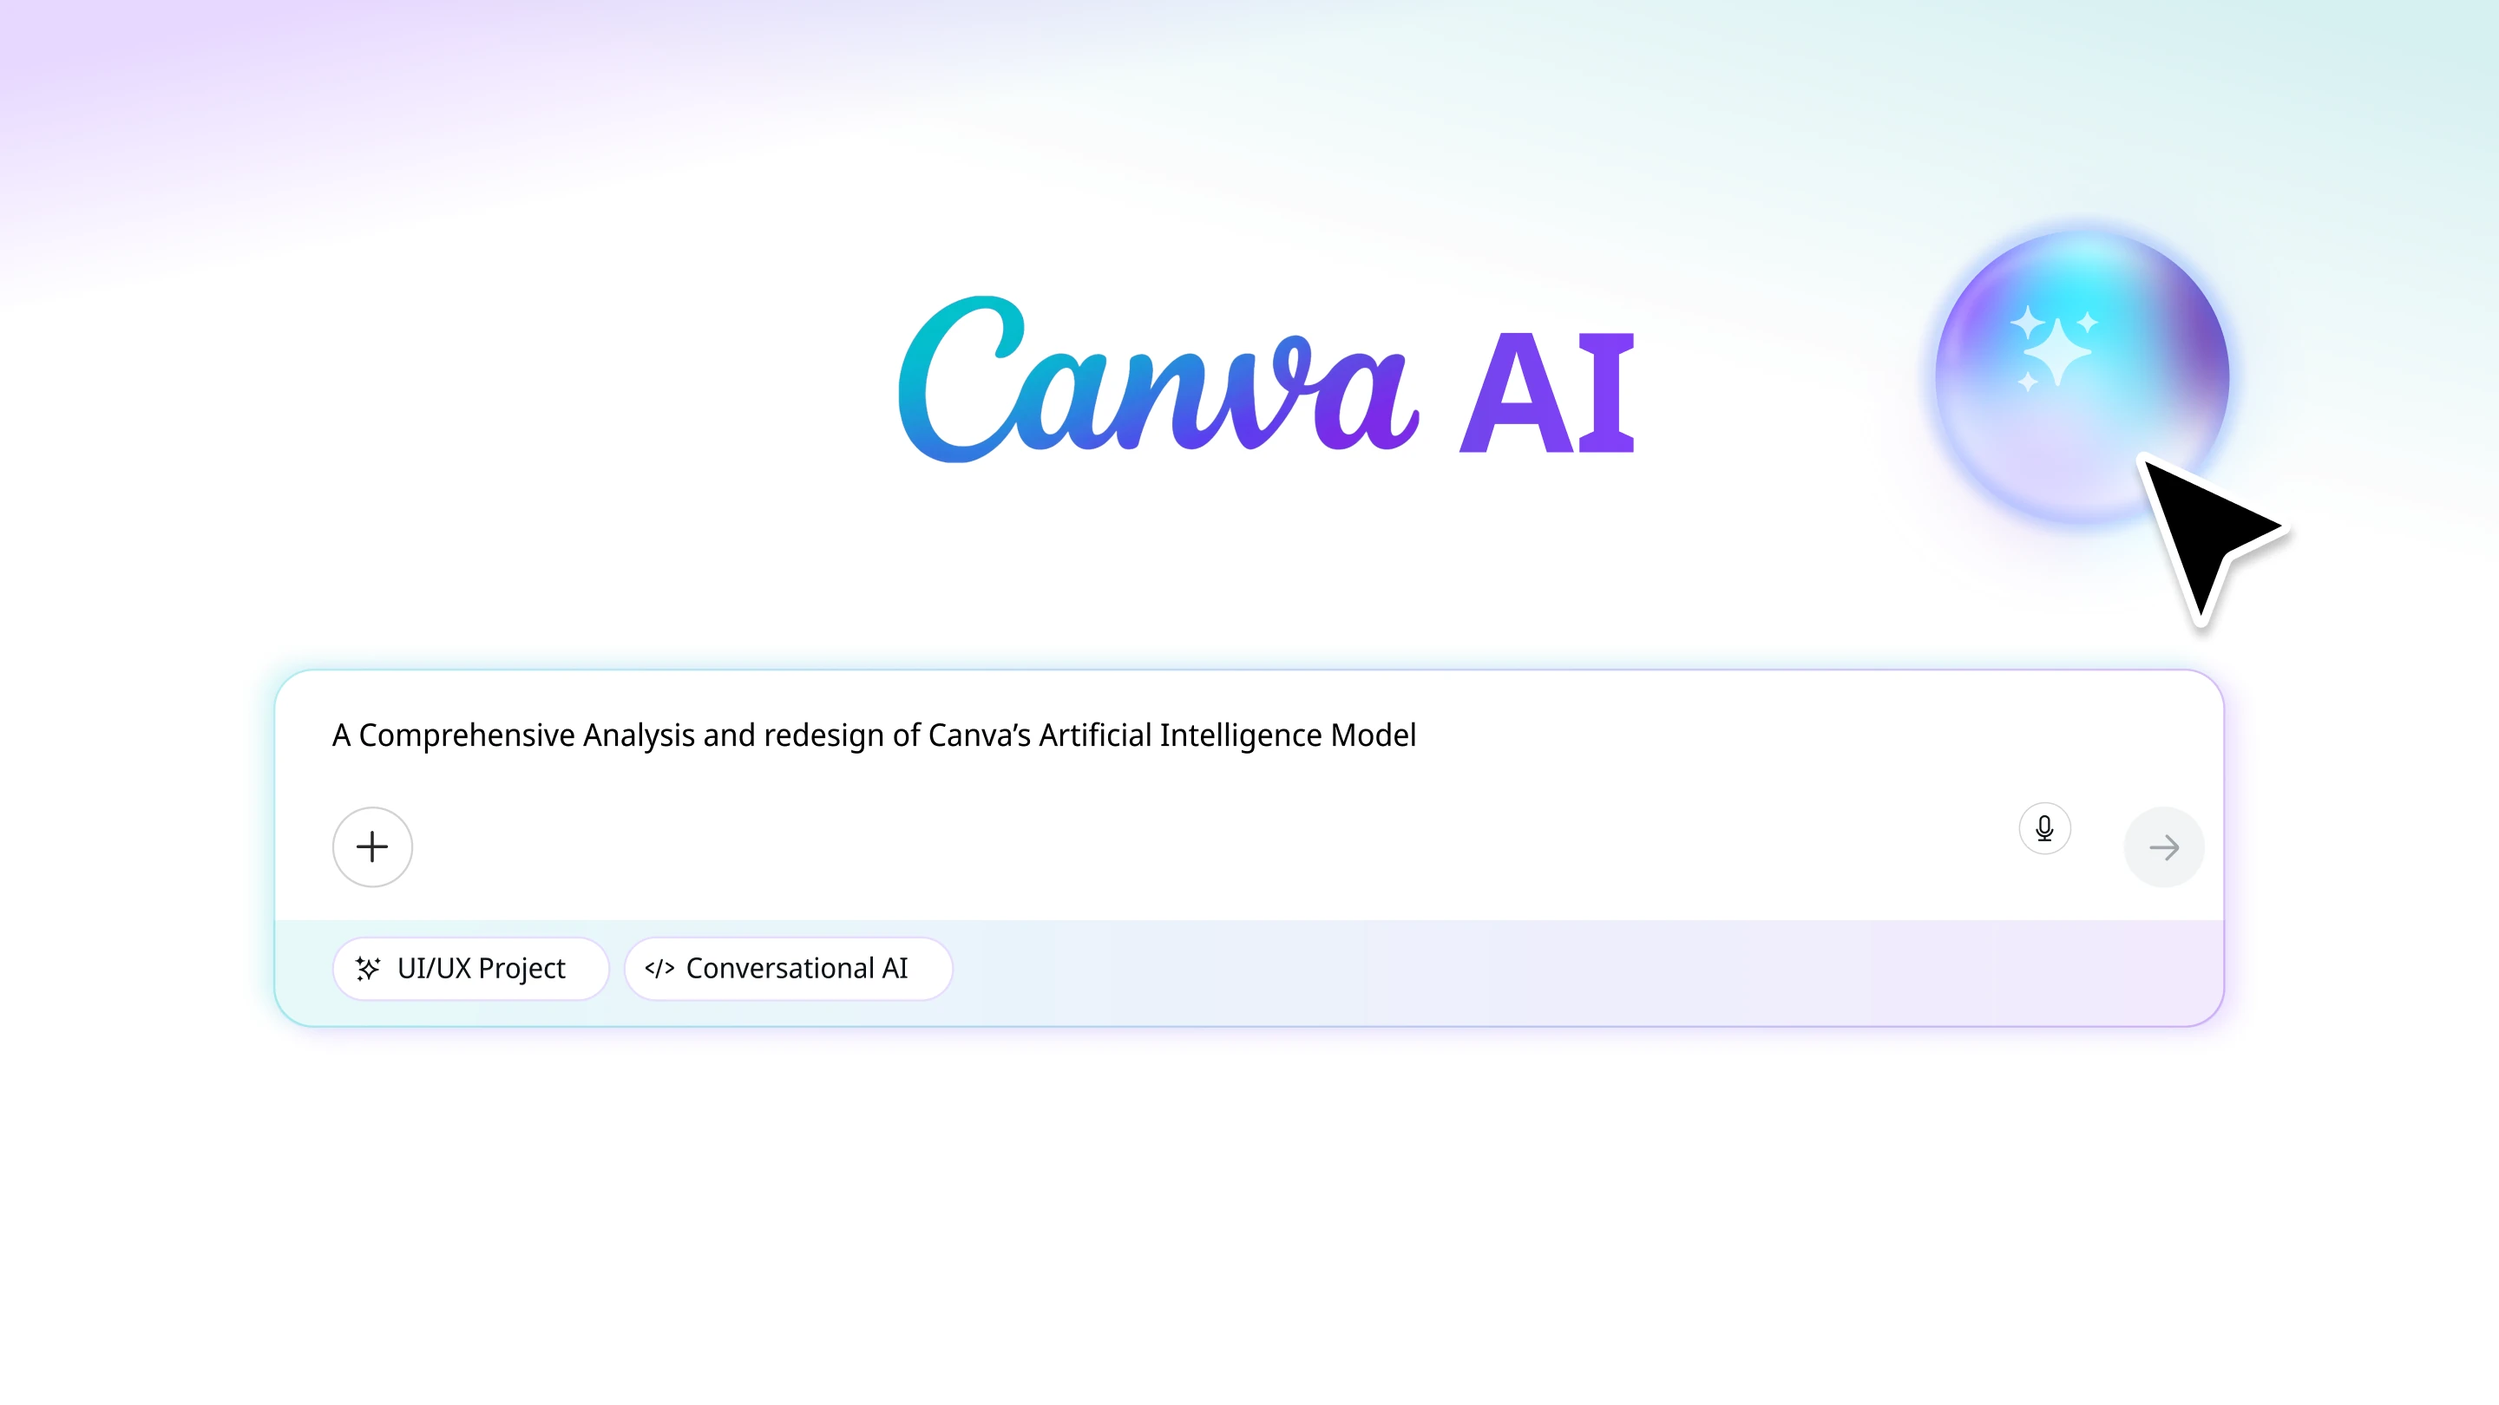
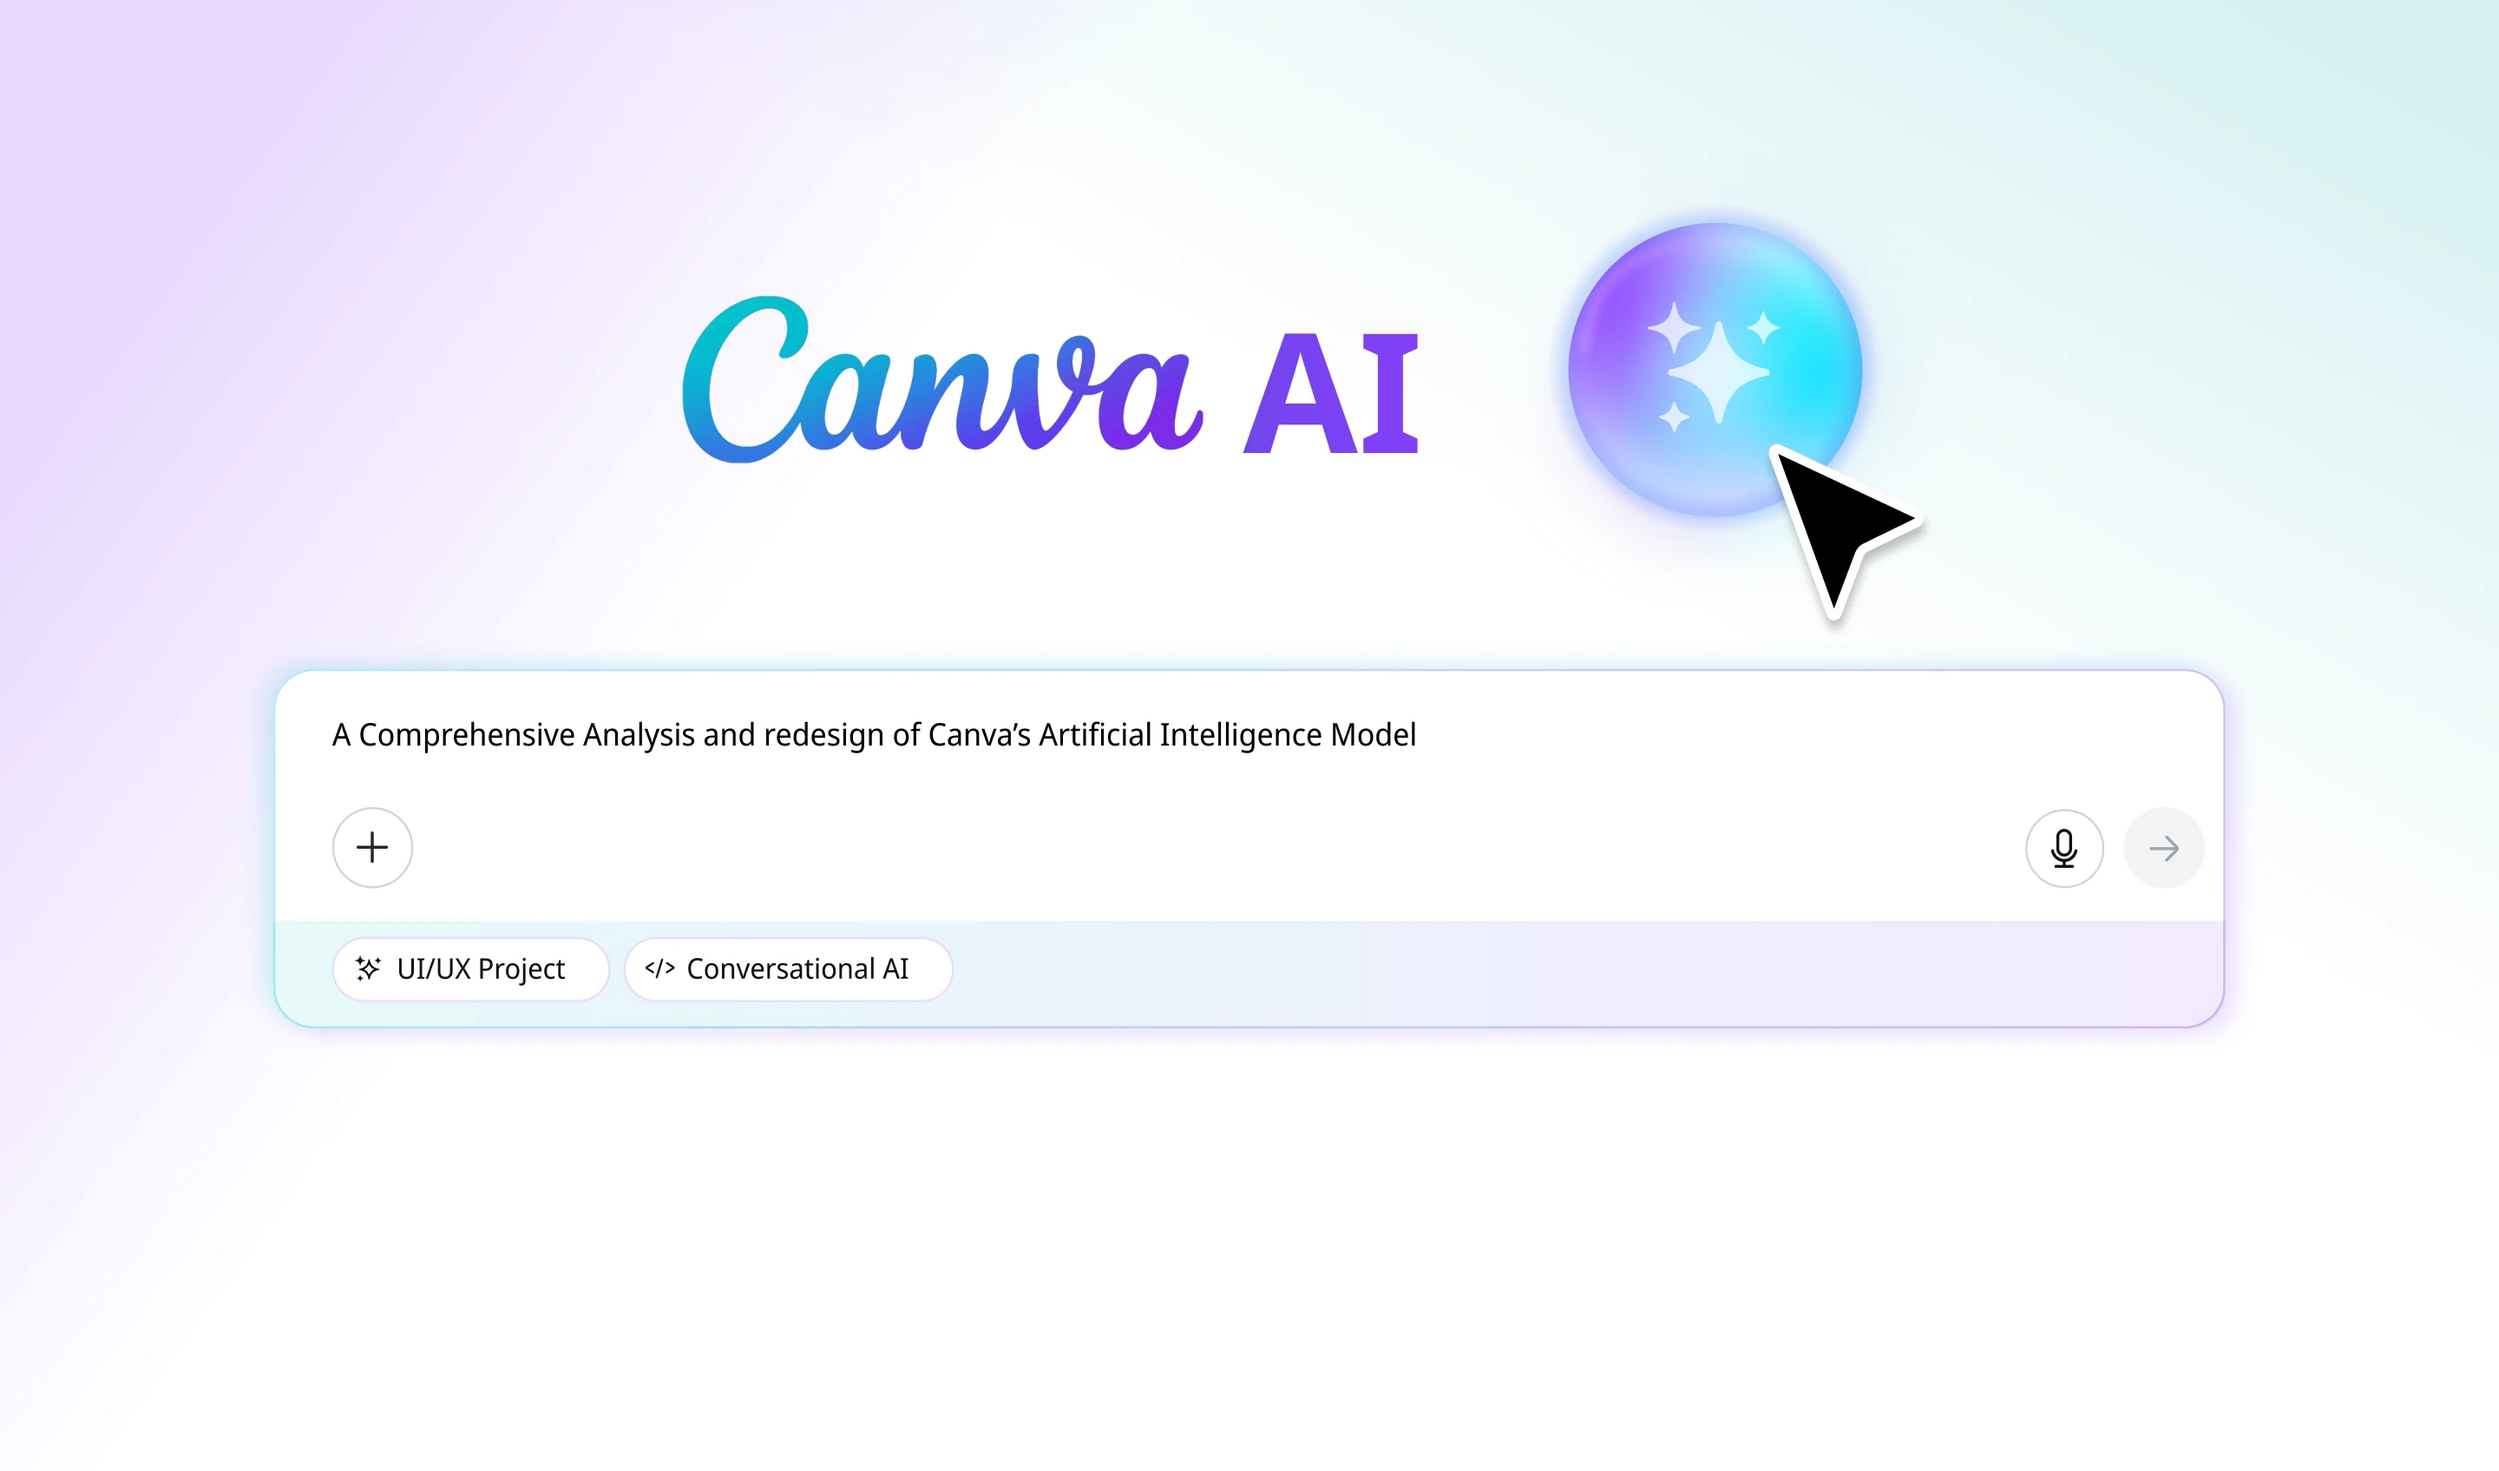
Canva AI: new intro frame as the cover

diff --git a/work/canva-ai.html b/work/canva-ai.html
@@ -30,7 +30,7 @@
   <div class="meta"><div><b>Type</b><span>UI/UX, conversational AI</span></div><div><b>My role</b><span>Visual Design, Research &amp; Analysis, AI Response Analysis, Framework Design</span></div><div><b>Methods</b><span>Prompt testing, review analysis</span></div><div><b>Year</b><span>2025</span></div></div>
 </header>
 
-<div class="cover"><div class="frame"><img src="img/canva-ai/01.webp" width="2880" height="1620" alt="Canva AI project cover" loading="eager" fetchpriority="high" decoding="async"></div></div>
+<div class="cover"><div class="frame"><img src="img/canva-ai/01.webp" width="2880" height="1695" alt="Canva AI project cover" loading="eager" fetchpriority="high" decoding="async"></div></div>
 
 <section class="about">
   <p>Canva's AI assistant serves 180 million monthly users, most of them non-designers. We tested it with a bank of 50 real-world prompts, built the CAPABLE framework to pin down where it misread intent, and redesigned the assistant to stay inside the file, ask before it changes anything, and review a design the way a consultant would.</p>

diff --git a/HANDOFF.md b/HANDOFF.md
@@ -319,6 +319,9 @@ Last updated: 2026-09-19
     - **Relique video re-cut** from the original (`D:\Submissions\Audio Final\Relique Final Video submission.mp4`), 9:36 down to **9:05**. Removed: 0 to 8s ("Recording has started" popup and the Figma prototype toolbar), 27.25 to 29.75 (toolbar), 60.5 to 61.25 (toolbar flash), 277 to 285.25 (the second recording's popup and the green NVIDIA flash), 564.5 to the end (toolbar). The NVIDIA record and mic icons in the top-left corner, present throughout on pure black, are painted over with a black box (`drawbox=x=0:y=0:w=80:h=110`). A frame-by-frame detector (top band, corner, popup region at 4fps) finds zero overlay frames in the new cut. The poster is now its first frame.
     - Verified in Edge at 1366x768, 1440x900 and 390x844 on the ICCC and Relique pages: the box reaches exactly the viewport, plays only in the full state, the nav is hidden while zoomed, no horizontal overflow, no script errors.
 
+46. **New Canva AI cover (2026-09-19).** `work/img/canva-ai/01.webp` is now the user's new intro frame **"Canva AI" (`2327:794`)**, 1920x1130 native, exported at 2880x1695 (WebP q90, 68KB). Replaces the old 2880x1620 cover.
+    - **Better way to export above native size (use this instead of the clone + `rescale` method in item 41):** `rescale(1.5)` on a clone mis-rendered this frame (the mic button instance lost its circle and the orb's glow changed). Instead, in `use_figma`: `bytes = await node.exportAsync({format:'PNG', constraint:{type:'SCALE', value:1.5}})`, `figma.createImage(bytes)`, put it as an IMAGE fill on a temporary rectangle of the returned size, `get_screenshot` that rectangle at its native size (`contentsOnly:true`), then delete the rectangle. This is Figma's own exporter, so it is pixel-faithful, and no fonts need flattening.
+
 ## In progress / not yet confirmed
 
 
